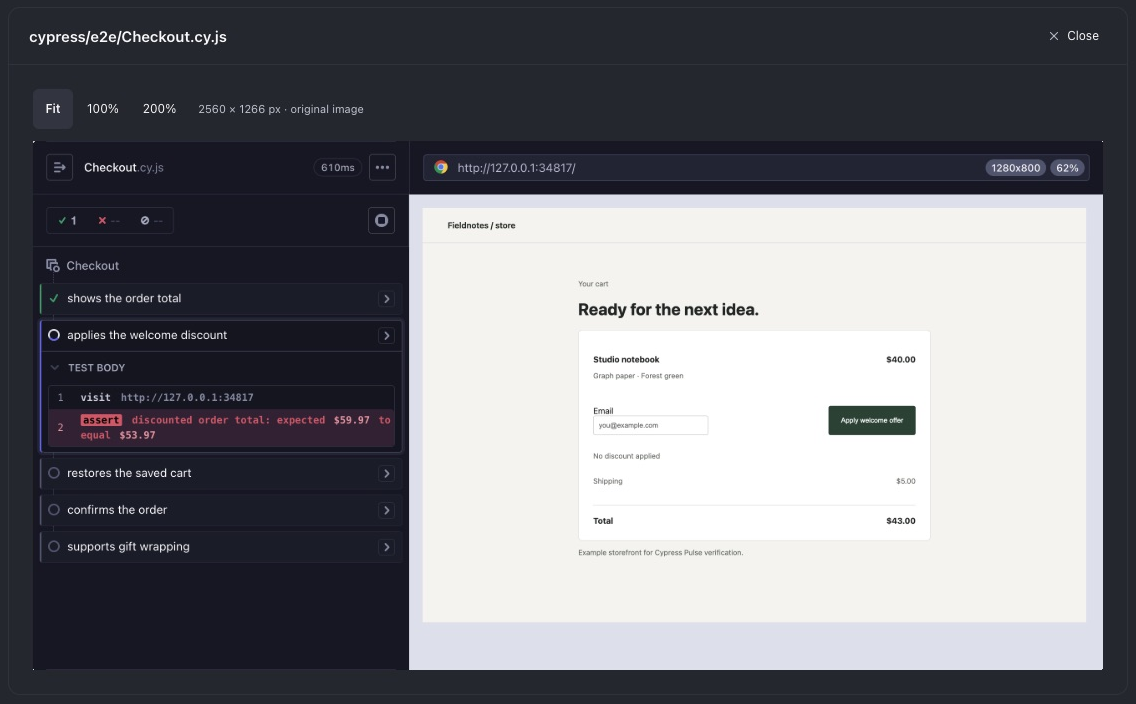
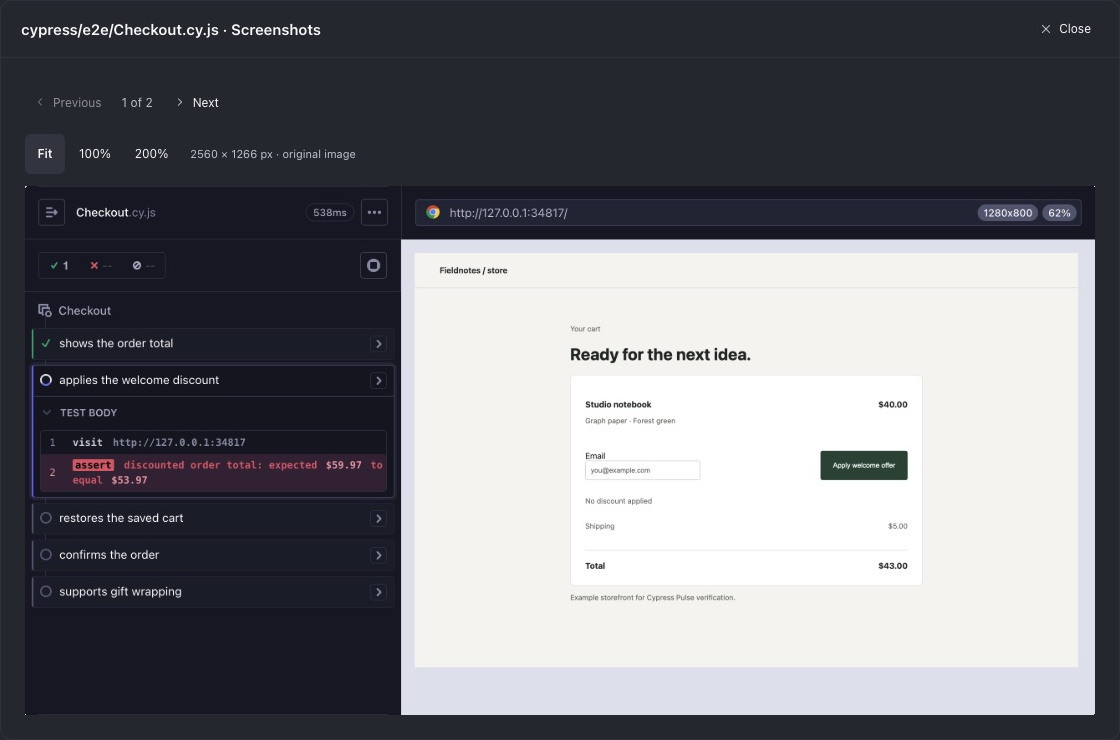
docs: refresh screenshots and document version history

diff --git a/README.md b/README.md
@@ -1,5 +1,7 @@
 # Cypress Pulse
 
+Current version: **0.5.0** · [Release notes](RELEASE_NOTES.md)
+
 Watch Cypress tests from Paseo’s Explorer panel while your agent works. Follow live spec progress, browse tests grouped by their spec file, inspect source, and browse screenshots and spec videos without leaving the workspace. A header indicator keeps the run visible when the panel is closed.
 
 Standalone plugin, inspired by [Playwright Pulse](https://github.com/stevecastaneda/paseo-plugins/tree/main/playwright-pulse#readme). Your tested projects keep their existing sources, configuration, and dependencies.
@@ -48,7 +50,7 @@ The installer runs only when clicked. Existing files or links owned by another i
 - The summary shows browser, run mode, elapsed time, completed tests and specs, outcomes, and retries. Spinners in the panel and workspace header indicate an active run.
 - The segmented progress bar distinguishes passed, failed, flaky, pending, and skipped tests. A **flaky** test passed after retrying; it is counted once, separately from clean passes in the legend. Batch totals are labeled **known tests** until all specs have loaded because Cypress does not know the contents of unevaluated files.
 - Tests are grouped by **spec file**, with outcome and retry counts in each header. Running and failing files appear first and start expanded; completed files start collapsed. Click the chevron, folder path, counts, or card background to expand or collapse a file. Test-detail and screenshot controls keep their own actions.
-- Click only the **filename or adjacent arrow** to read its current source, with line numbers and **Copy source**. Desktop source dialogs are up to 1120 px wide, twice the previous width, and shrink to fit smaller screens. This is a read-only preview inside Paseo; native editor tabs are not exposed by Paseo 0.11.2’s plugin API.
+- Click only the **filename or adjacent arrow** to read its current source, with line numbers and **Copy source**. Desktop source dialogs are up to 1120 px wide, and shrink to fit smaller screens. This is a read-only preview inside Paseo; native editor tabs are not exposed by Paseo 0.11.2’s plugin API.
 - Failures appear first inside each file. Expand a test for its message; **Stack trace** and **Copy error** provide more detail. **Failed** shows only failing files and tests, while their headers keep the full file counts. **Flaky** shows only files and tests that passed after a retry.
 - **Screenshots** opens a gallery of Cypress-generated images from the matching file section. Use **Previous** and **Next** inside the dialog. The wider viewer preserves the original image and offers **Fit**, **100%**, and **200%** with scrolling. Batch screenshots belong to a spec; the plugin does not guess which test owns an image from its filename.
 - **Video** opens the Cypress-generated MP4 for a spec, with playback, seeking and fullscreen controls on desktop/web. Cypress records **one video per spec file**, only in `cypress run` (headed or headless), when recording is enabled. Open mode does not record video. Media controls appear when the run reports the artifacts. Images are limited to 8 MB and videos to 32 MB; native mobile clients show a playback availability message.
@@ -70,6 +72,13 @@ The installer runs only when clicked. Existing files or links owned by another i
 
 Pending/skipped-only executions are marked **No executed tests**, so they cannot be mistaken for a successful verification.
 
+<details>
+<summary>Spec video player</summary>
+
+<img src="assets/video-preview.png" width="720" alt="Cypress spec video in the gallery with playback and seeking controls">
+
+</details>
+
 ## Capture settings
 
 Open **Settings** in the panel, or **Settings → Plugins → Cypress Pulse → Capture settings**. Defaults are shared by clients of this daemon host and survive plugin updates:
@@ -78,6 +87,8 @@ Open **Settings** in the panel, or **Settings → Plugins → Cypress Pulse → 
 - **Screenshot resolution:** standard or optional 2× capture for Chrome, Chromium and Edge. This changes device pixel ratio; `--screenshot-scale 1` or `2` overrides it per run.
 - **Record spec videos:** use the project's setting, enable, or disable recording.
 - **Video compression:** use the project's setting, uncompressed, or balanced CRF 32 to reduce file size.
+
+<img src="assets/settings.png" width="720" alt="Cypress Pulse capture settings for failure screenshots, resolution, video recording and compression">
 
 Settings apply to future **Pulse helper batch runs**, including headed runs. Active runs and `cypress open` are unaffected. Defaults initially preserve project settings and use standard resolution. Existing environment overrides and explicit Cypress `--config` options take precedence over saved capture defaults. Project sources/configuration are never edited. Project setup hooks can still customize the resolved configuration.
 
@@ -105,9 +116,9 @@ For higher-resolution failure captures, opt in for an individual batch run:
 node ~/.local/share/cypress-pulse/cli.mjs run --project /absolute/path/to/project --screenshot-scale 2 -- --spec cypress/e2e/checkout.cy.ts --browser chrome
 ```
 
-This asks Chrome, Chromium, or Edge to use a 2× device pixel ratio. The configured Cypress viewport stays unchanged, but pixel ratio can affect visual assertions. The option is off by default; Electron and Firefox are not supported by this option. It cannot change images already captured by an interactive session. A headless Chrome verification produced 2560 × 1266 pixels instead of 1280 × 633. See [Cypress’s browser-launch documentation](https://docs.cypress.io/api/node-events/browser-launch-api#Set-screen-size-when-running-headless).
+This asks Chrome, Chromium, or Edge to use a 2× device pixel ratio. The configured Cypress viewport stays unchanged, but pixel ratio can affect visual assertions. Standard resolution is the initial default; a saved 2× setting also enables scaling. Electron and Firefox are not supported by this option. It cannot change images already captured by an interactive session. A headless Chrome verification produced 2560 × 1266 pixels instead of 1280 × 633. See [Cypress’s browser-launch documentation](https://docs.cypress.io/api/node-events/browser-launch-api#Set-screen-size-when-running-headless).
 
-The helper imports the project’s existing configuration through a temporary wrapper outside the repository, composes its hooks, and delegates to its reporter. Before loading any project code, it restores the original configuration directory as the config process working directory, matching a native Cypress invocation. This preserves relative file reads and named webpack loader resolution, including when the config lives below the project root. It never edits project configuration or dependency manifests. Tests still generate their normal artifacts according to the existing Cypress configuration.
+The helper imports the project’s existing configuration through a temporary wrapper outside the repository, composes its hooks, and delegates to its reporter. Before loading any project code, it restores the original configuration directory as the config process working directory, matching a native Cypress invocation. This preserves relative file reads and named webpack loader resolution, including when the config lives below the project root. It never edits project configuration or dependency manifests. Tests generate artifacts according to resolved Cypress configuration, including capture defaults and explicit invocation overrides.
 
 For interactive tests, start **cypress open** normally and choose a Chromium-family browser. The plugin observes the session through the project’s own **cypress tap** CLI; no support-file instrumentation is needed. At a monorepo root, discovery needs a reachable Cypress installation or a previously observed batch run identifying the Cypress project.
 
@@ -115,9 +126,9 @@ For interactive tests, start **cypress open** normally and choose a Chromium-fam
 
 An already running, uninstrumented batch invocation cannot be attached. Interactive monitoring currently supports Chromium-family browsers. This version observes tests; it has no stop or rerun controls.
 
-The panel lists 30 recent runs and up to 300 test details for the selected run, with failures and running tests first. Run and file counts cover the full execution, including tests outside the detail limit. Source previews read only specs identified by the run, inside the workspace, with a 1 MiB limit; long lines can be scrolled horizontally. Screenshot previews accept PNG/JPEG files up to 8 MiB. Telemetry reads have a 32 MiB limit; exceeding it produces a notice. Interactive reports are checked against the session and run identity before and after reading.
+The panel lists 30 recent runs and up to 300 test details for the selected run, with failures and running tests first. Run and file counts cover the full execution, including tests outside the detail limit. Source previews read only specs identified by the run, inside the workspace, with a 1 MiB limit; long lines can be scrolled horizontally. Screenshot previews accept PNG/JPEG files up to 8 MiB; video previews accept MP4 files up to 32 MiB. Telemetry reads have a 32 MiB limit; exceeding it produces a notice. Interactive reports are checked against the session and run identity before and after reading.
 
-Data stays on the daemon host in `~/.local/state/cypress-pulse`. `CYPRESS_PULSE_STATE_DIR` or helper `--state-dir` can override it; the daemon and helper must use the same location. It includes test titles, failure text, and artifact paths, without copying project configuration or environment variables. The helper’s `show --run-id ID` command returns normalized JSON for agents. No cloud account is required.
+Data stays on the daemon host in `~/.local/state/cypress-pulse`. `CYPRESS_PULSE_STATE_DIR` or helper `--state-dir` can override it; the daemon and helper must use the same location. It includes saved capture defaults, test titles, failure text, and artifact paths, without copying project configuration or environment variables. The helper’s `show --run-id ID` command returns normalized JSON for agents. No cloud account is required.
 
 ## Development and verification
 
@@ -144,4 +155,4 @@ Collectors, installer, and launch helper use Node’s standard library. The clie
 
 [MIT license](LICENSE).
 
-Version 0.5.0 adds the Flaky filter, screenshot galleries, spec-video playback and host capture settings. These were verified in the local Paseo desktop app with real Cypress-generated media.
+Version 0.5.0’s Flaky filter, screenshot gallery navigation, generated spec-video playback and host capture settings were verified in the local Paseo desktop app. See [release notes](RELEASE_NOTES.md) for the version history.

diff --git a/OVERVIEW.md b/OVERVIEW.md
@@ -8,6 +8,10 @@ Requires Paseo app and daemon 0.11.2 on the 0.11.x line, Cypress 16.x, and Node 
 
 Progress, failure text, and screenshot references stay on the daemon host in a separate Cypress Pulse state directory. No cloud account is needed. The plugin reads local run data and queries local Cypress sessions; it sends this information through Paseo to the connected client. Screenshots and videos inside the Cypress project can be previewed (8 MB images, 32 MB videos). Video playback is supported on desktop/web. Clicking a spec filename reads its current source inside the workspace and sends it to the connected Paseo client for a read-only preview.
 
-Headless or headed batch runs must start through the helper to appear. Interactive monitoring currently covers Chromium-family browsers. Completed test results update while a spec is still running. A segmented progress bar shows clean passes, flaky passes, failures, and pending/skipped outcomes. Batch totals are labeled as known tests until every spec has loaded. Source previews use a wider desktop dialog. Failure images retain their original resolution and offer fit and pixel-zoom controls. Higher-resolution capture is an optional per-run helper setting for Chrome, Chromium, or Edge; it changes device pixel ratio and can affect visual assertions. The panel shows up to 300 test details per selected run, with failures and running tests first, while run and file counts cover the full execution.
+Headless or headed batch runs must start through the helper to appear. Interactive monitoring currently covers Chromium-family browsers. Completed test results update while a spec is still running. A segmented progress bar shows clean passes, flaky passes, failures, and pending/skipped outcomes. Batch totals are labeled as known tests until every spec has loaded. Source previews use a wider desktop dialog. Failure images retain their original resolution and offer fit and pixel-zoom controls. All/Failed/Flaky filters focus the displayed tests without changing file totals. Screenshot galleries provide Previous/Next navigation; spec videos provide playback and seeking on desktop/web. Higher-resolution capture is an optional host default or per-run helper setting for Chrome, Chromium, or Edge; it changes device pixel ratio and can affect visual assertions. The panel shows up to 300 test details per selected run, with failures and running tests first, while run and file counts cover the full execution.
 
 The plugin keeps its helper and telemetry outside repositories. Helper versions remain available after a plugin reload or removal so running tests can finish. Tests themselves may still create their normal screenshots, videos, or reports according to the project's configuration and any capture defaults selected in the plugin settings. Host settings apply only to future Pulse batch runs, with explicit invocation overrides taking precedence. Cypress records one video per spec in run mode; open mode does not record video.
+
+Open Settings in the panel for capture defaults: failure screenshots, standard or 2× resolution, video recording, and compression. Settings are shared by clients of this daemon host and survive plugin reloads. Initial defaults preserve the project’s capture settings and standard resolution.
+
+Current version: 0.5.0. See [release notes](RELEASE_NOTES.md) for changes in each version.

diff --git a/RELEASE_NOTES.md b/RELEASE_NOTES.md
@@ -1,0 +1,49 @@
+# Release notes
+
+Version history from the repository's implementation commits. These entries describe plugin versions; they do not imply npm publication.
+
+## 0.5.0
+
+- Added a **Flaky** filter for tests that passed after a retry.
+- Replaced individual screenshot buttons with a **Screenshots** gallery, with Previous/Next navigation and original-resolution zoom.
+- Added **Video** playback for Cypress-generated spec recordings on desktop/web. Cypress records one video per spec in run mode; open mode does not record videos.
+- Added host capture settings for automatic failure screenshots, standard/2× resolution, video recording, and compression. Defaults apply to future Pulse helper runs without editing project files; explicit invocation overrides take precedence.
+- Refreshed documentation images, including capture settings and the video player. Added this version history.
+
+## 0.4.1
+
+- Balanced suite-card header padding and removed excess space above filenames.
+- Aligned filenames, folder paths, and outcome counts with expanded test details.
+
+## 0.4.0
+
+- Show completed test outcomes while a spec is still running, including interactive Tap sessions.
+- Distinguish clean passes, flaky passes, failures, pending, and skipped tests in segmented progress; mark incomplete batch totals as known tests.
+- Added optional per-run 2× Chromium screenshot capture without changing the configured viewport.
+- Added running spinners, wider source/image dialogs, and Fit/100%/200% screenshot zoom.
+- Limited source-preview activation to the filename and adjacent arrow; other suite-card clicks expand/collapse.
+- Shortened home-directory paths to `~/` in agent setup.
+
+## 0.3.1
+
+- Fixed project compilation failures caused by configuration wrappers running from the Pulse helper directory.
+- Restore the original config directory before importing project code, preserving relative reads and named webpack loader resolution.
+- Added regression coverage for CommonJS and nested ESM TypeScript configs, webpack preprocessing, and `ts-loader`.
+
+## 0.3.0
+
+- Grouped tests by spec file with per-file outcomes and retry counts.
+- Added expandable suite sections, focused failure details, and spec-level screenshot access.
+- Added read-only source previews with line numbers and Copy source for known spec files inside the workspace.
+
+## 0.2.0
+
+- Added one-click agent skill installation through the Paseo interface, with ownership checks for existing files and links.
+- Added agent setup status and refined the dashboard layout and failure presentation.
+- Improved TypeScript compatibility checks and source formatting.
+
+## 0.1.0
+
+- Initial standalone Cypress Pulse plugin for Paseo, with an Explorer dashboard and workspace progress indicator.
+- Added an external batch helper that composes existing hooks/reporters and preserves tested project sources and configuration.
+- Added interactive monitoring through Cypress Tap, local run history, failure reporting, screenshot previews, and runtime version checks.
